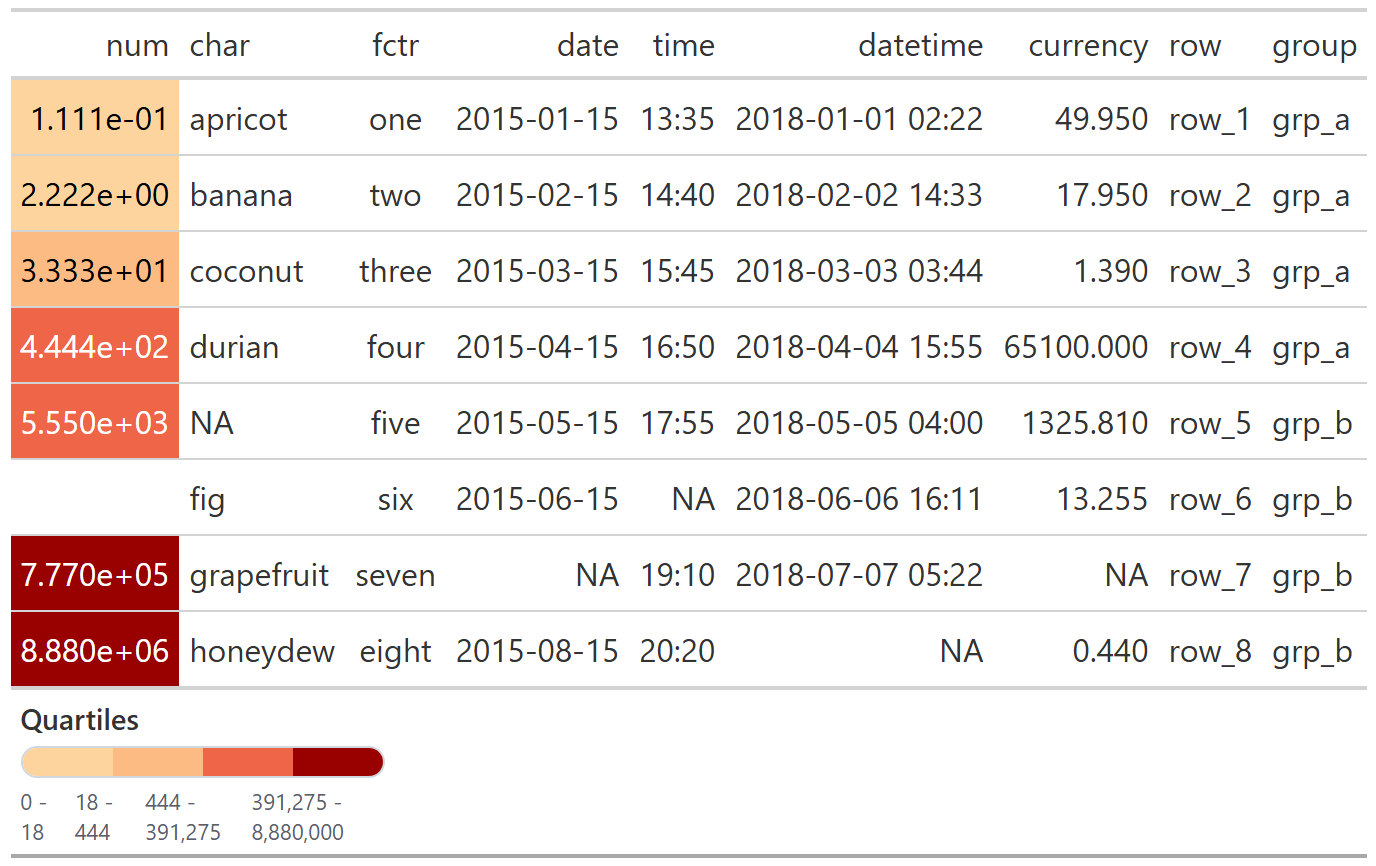
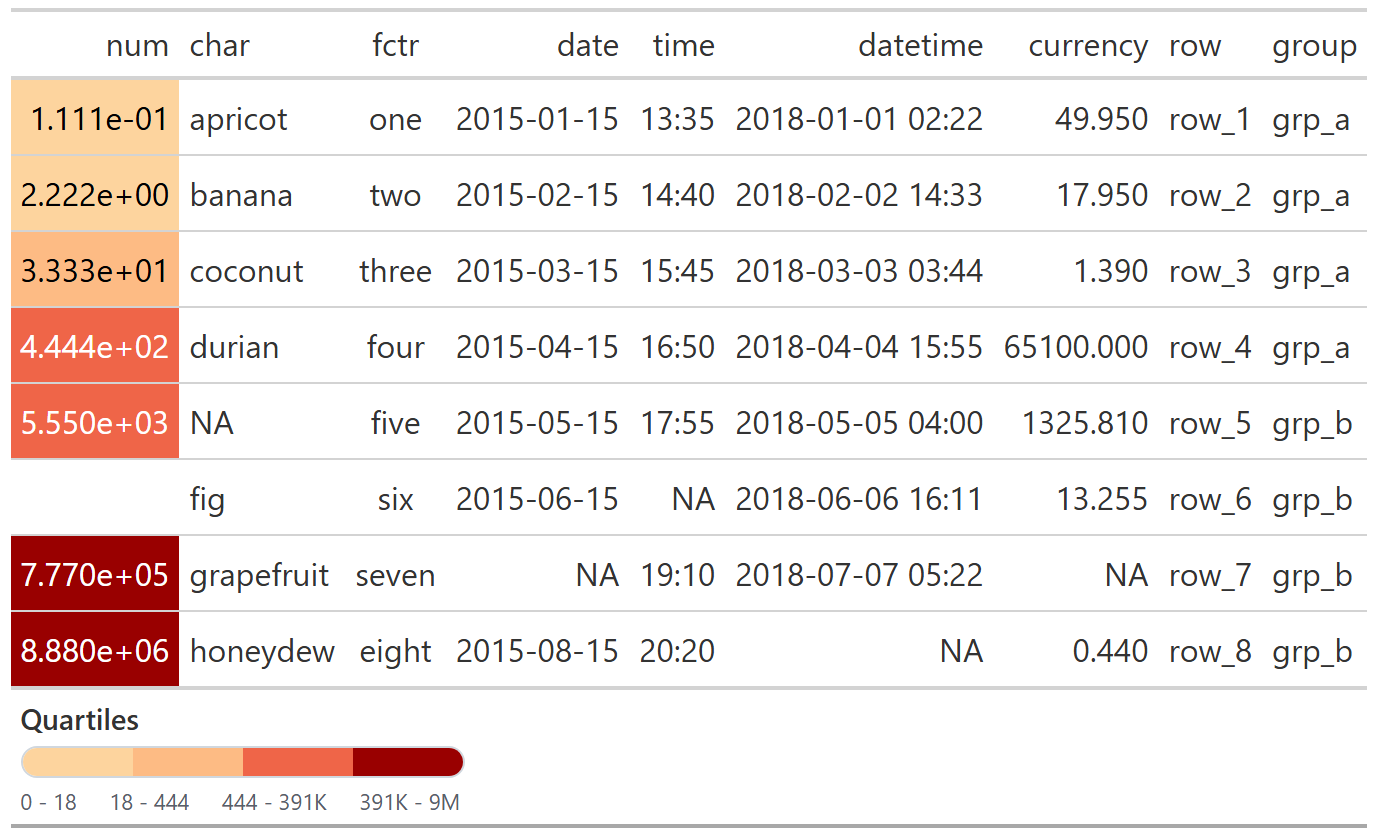
clean up readme

Changed region(s): [[0.0, 0.1244, 1.0, 0.9952], [0.0, 0.0311, 1.0, 0.0933]]

diff --git a/README.md b/README.md
@@ -36,6 +36,8 @@ exibble |>
   gtscale_data_color_continuous(
     column = num,
     palette = c('#A0442C', 'white', '#0063B1'),
+    labels = big_number_labels,
+    width = '220px',
     title = 'Numeric scale'
   )
 ```
@@ -74,7 +76,7 @@ data.frame(
   gt() |>
   gtscale_data_color_discrete(
     column = status,
-    values = c('#2166ac', '#f7f7f7', '#ef8a62', '#b2182b'),
+    values = c('#2166ac', '#f7f7f7', '#f4a3b4', '#b2182b'),
     labels = c('Safe D', 'Toss-up', 'Lean R', 'Safe R'),
     title = 'Race rating'
   )
@@ -94,6 +96,8 @@ exibble |>
     column = num,
     palette = c('#fdd49e', '#fdbb84', '#ef6548', '#990000'),
     quantiles = 4,
+    labels = big_number_labels,
+    width = '220px',
     title = 'Quartiles'
   )
 ```
@@ -118,6 +122,8 @@ data.frame(
     column = when,
     palette = scales::pal_viridis(),
     bins = scales::breaks_width('1 month'),
+    labels = date_labels,
+    width = '220px',
     title = 'Monthly bins'
   )
 
@@ -128,6 +134,7 @@ data.frame(value = c(1, 10, 100, 1000)) |>
     palette = scales::pal_viridis(),
     transform = 'log10',
     breaks = scales::breaks_log(),
-    labels = scales::label_number()
+    labels = big_number_labels,
+    width = '220px'
   )
 ```
